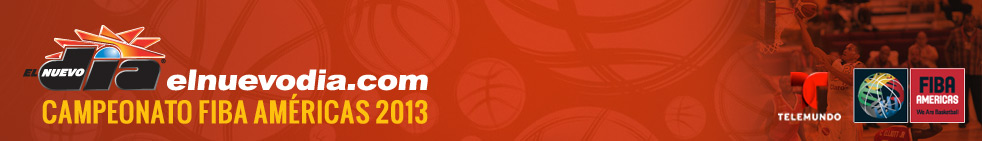
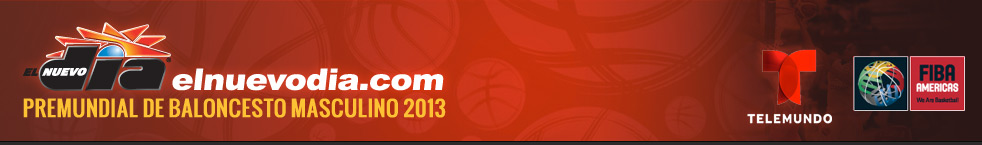
Fixed headers

diff --git a/css/responsive.css b/css/responsive.css
@@ -223,6 +223,11 @@ ul.comment               { width: 609px;}
 h1.article-title         { font-size: 30px; line-height: 28px; width: 500px; }
 #galleryUL li img { width: 608px; height: 456px; }
 
+
+.img_subheader { display: none; }
+
+#header-tablet { display: block }
+
 /*-----------------------------------------------------------------------------
                                  1 - Layout   
 ----------------------------------------------------------------------------- */
@@ -314,7 +319,13 @@ ul.comment               { width: 659px;}
 #classVideosHolder { margin: 50px auto; width: 350px; }
 .videos ~ .videos { margin-left: 20px; }
 
-.img_subheader { width: 100%; overflow: hidden; }
+/*.img_subheader { width: 100%; overflow: hidden; }*/
+.img_subheader { display: none; }
+#header-mobile { display: none; }
+#header-tablet { display: none; }
+#header-intermedio { display: block; }
+
+
 #sitemenu { width: 100%; overflow: hidden; }
 #destacadosHolder { width: 381px; }
 #destacadosControlRight { margin-left: 420px; }
@@ -533,6 +544,7 @@ ul.footer-menu            { display: none;}
 
 .img_subheader { display: none; }
 #header-mobile { display: block; }
+#header-tablet { display: none; }
 
 
 #sitemenumobile { display: block; position: absolute; margin-top: 10px; }

diff --git a/css/style.css b/css/style.css
@@ -282,7 +282,9 @@ li .responsiveStats { border-right: 2px solid red; }
 .responsiveFinal { background: #c4c4c4; }
 .jugador { cursor: pointer; }
 
-#header-mobile { display: none; margin: 0 auto; width: 100%; overflow: hidden; border-top: 1px solid #2d2a2a; border-bottom: 2px solid #0b0b0b; height: 140px; }
+#header-mobile { background: black; display: none; margin: 0 auto; width: 100%; overflow: hidden; border-top: 1px solid #2d2a2a; border-bottom: 2px solid #0b0b0b; height: 140px; }
+#header-tablet { background: black; display: none; margin: 0 auto; width: 100%; overflow: hidden; border-top: 1px solid #2d2a2a; border-bottom: 2px solid #0b0b0b; height: 140px; }
+#header-intermedio { background: black; display: none; margin: 0 auto; width: 100%; overflow: hidden; border-top: 1px solid #2d2a2a; border-bottom: 2px solid #0b0b0b; height: 140px; }
 
 
 /*-----------------------------------------------------------------------------

diff --git a/index.html b/index.html
@@ -47,7 +47,13 @@
         <img src="images/fiba/subheader.jpg">
     </div>
     <div id="header-mobile">
-        <img src="images/fiba/header_mobile.jpg">
+        <img src="images/fiba/header_mobile.jpg" width="100%">
+    </div>
+    <div id="header-tablet">
+        <img src="images/fiba/header_tablet.jpg" width="100%"> 
+    </div>
+    <div id="header-intermedio">
+        <img src="images/fiba/header_intermedio.jpg" width="100%"> 
     </div>
 </section>
 
